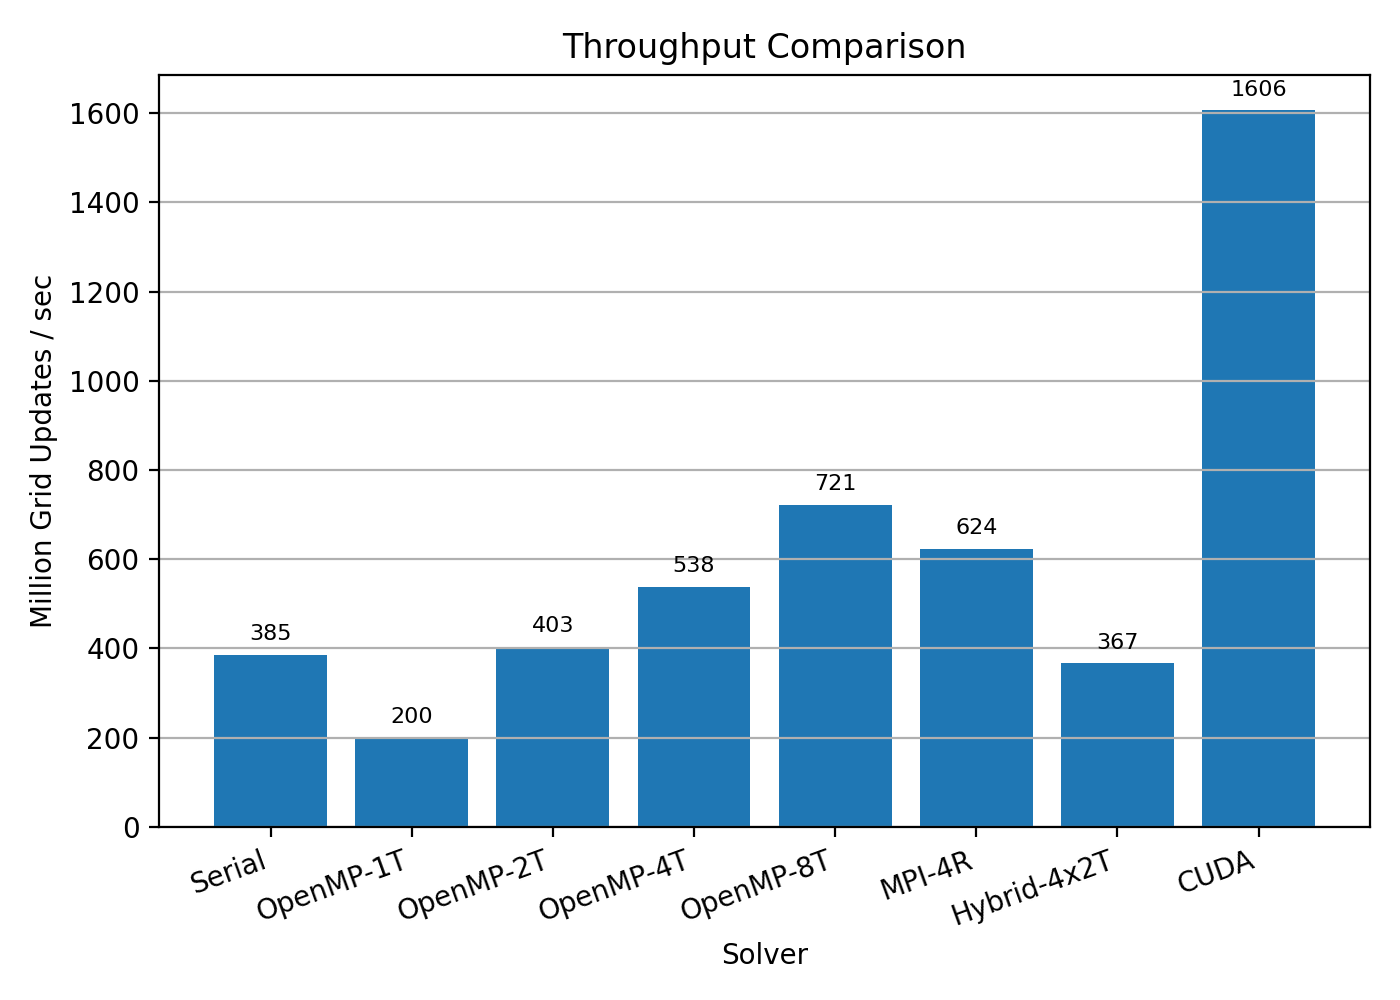
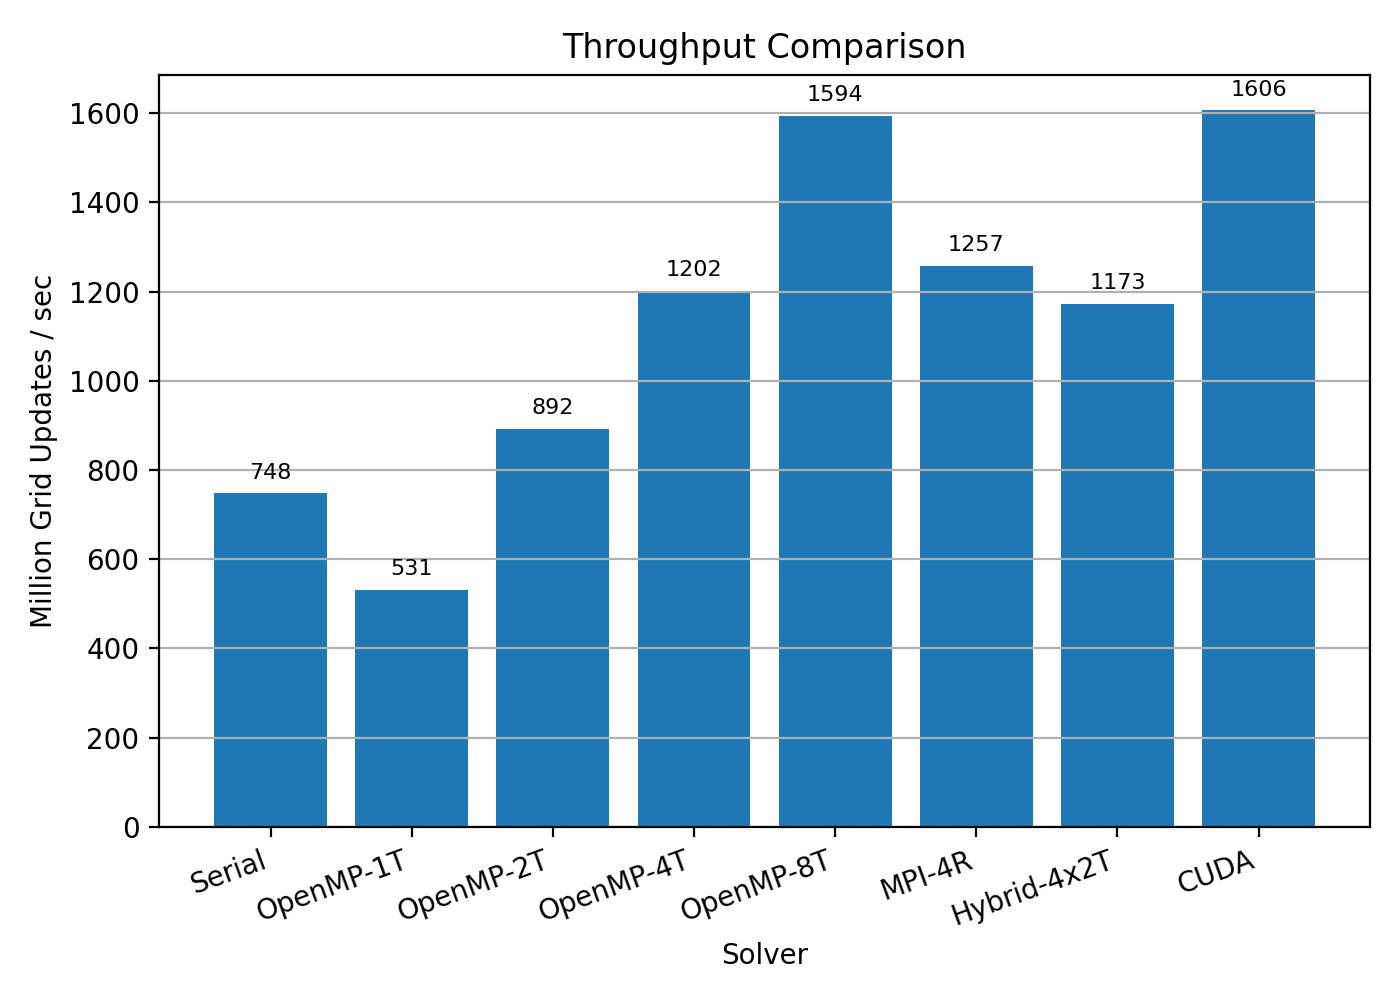
Restore frontend graph outputs

Changed region(s): [[0.1536, 0.062, 0.86, 0.744]]

diff --git a/Compare/comparison_results.js b/Compare/comparison_results.js
@@ -1,10 +1,10 @@
 window.COMPARISON_RESULTS = [
-  {"solver":"Serial","workers":1,"mpi_ranks":1,"openmp_threads":1,"exec_ms":8084.2679,"speedup":1.0,"efficiency_pct":100.0,"rmse":2.947695e-06,"rmse_vs_serial":0.0,"max_temp_C":90.600938,"throughput_MPointsPerSec":385.007},
-  {"solver":"OpenMP-1T","workers":1,"mpi_ranks":1,"openmp_threads":1,"exec_ms":15572.6171,"speedup":0.519134,"efficiency_pct":51.9134,"rmse":2.947695e-06,"rmse_vs_serial":0.0,"max_temp_C":90.600938,"throughput_MPointsPerSec":199.8701},
-  {"solver":"OpenMP-2T","workers":2,"mpi_ranks":1,"openmp_threads":2,"exec_ms":7721.3521,"speedup":1.047002,"efficiency_pct":52.3501,"rmse":2.947695e-06,"rmse_vs_serial":0.0,"max_temp_C":90.600938,"throughput_MPointsPerSec":403.103},
-  {"solver":"OpenMP-4T","workers":4,"mpi_ranks":1,"openmp_threads":4,"exec_ms":5782.883,"speedup":1.397965,"efficiency_pct":34.9491,"rmse":2.947695e-06,"rmse_vs_serial":0.0,"max_temp_C":90.600938,"throughput_MPointsPerSec":538.2263},
-  {"solver":"OpenMP-8T","workers":8,"mpi_ranks":1,"openmp_threads":8,"exec_ms":4316.1798,"speedup":1.873015,"efficiency_pct":23.4127,"rmse":2.947695e-06,"rmse_vs_serial":0.0,"max_temp_C":90.600938,"throughput_MPointsPerSec":721.1238},
-  {"solver":"MPI-4R","workers":4,"mpi_ranks":4,"openmp_threads":0,"exec_ms":4987.36,"speedup":1.620951,"efficiency_pct":40.5238,"rmse":2.94769e-06,"rmse_vs_serial":2.880623e-07,"max_temp_C":90.6009,"throughput_MPointsPerSec":624.0777},
-  {"solver":"Hybrid-4x2T","workers":8,"mpi_ranks":4,"openmp_threads":2,"exec_ms":8485.13,"speedup":0.952757,"efficiency_pct":11.9095,"rmse":2.94769e-06,"rmse_vs_serial":2.880623e-07,"max_temp_C":90.6009,"throughput_MPointsPerSec":366.8182},
-  {"solver":"CUDA","workers":0,"mpi_ranks":0,"openmp_threads":0,"exec_ms":1937.95,"speedup":4.171556,"efficiency_pct":0.0,"rmse":2.9477e-06,"rmse_vs_serial":2.561886e-05,"max_temp_C":90.6009,"throughput_MPointsPerSec":1606.0786}
+  {"solver":"Serial","workers":1,"mpi_ranks":1,"openmp_threads":1,"exec_ms":4163.5178,"speedup":1.0,"efficiency_pct":100.0,"rmse":2.947695e-06,"rmse_vs_serial":0.0,"max_temp_C":90.600938,"throughput_MPointsPerSec":747.565},
+  {"solver":"OpenMP-1T","workers":1,"mpi_ranks":1,"openmp_threads":1,"exec_ms":5857.5226,"speedup":0.710798,"efficiency_pct":71.0798,"rmse":2.947695e-06,"rmse_vs_serial":0.0,"max_temp_C":90.600938,"throughput_MPointsPerSec":531.368},
+  {"solver":"OpenMP-2T","workers":2,"mpi_ranks":1,"openmp_threads":2,"exec_ms":3490.4232,"speedup":1.19284,"efficiency_pct":59.642,"rmse":2.947695e-06,"rmse_vs_serial":0.0,"max_temp_C":90.600938,"throughput_MPointsPerSec":891.7257},
+  {"solver":"OpenMP-4T","workers":4,"mpi_ranks":1,"openmp_threads":4,"exec_ms":2590.0179,"speedup":1.607525,"efficiency_pct":40.1881,"rmse":2.947695e-06,"rmse_vs_serial":0.0,"max_temp_C":90.600938,"throughput_MPointsPerSec":1201.7292},
+  {"solver":"OpenMP-8T","workers":8,"mpi_ranks":1,"openmp_threads":8,"exec_ms":1952.0556,"speedup":2.132889,"efficiency_pct":26.6611,"rmse":2.947695e-06,"rmse_vs_serial":0.0,"max_temp_C":90.600938,"throughput_MPointsPerSec":1594.473},
+  {"solver":"MPI-4R","workers":4,"mpi_ranks":4,"openmp_threads":0,"exec_ms":2475.82,"speedup":1.681672,"efficiency_pct":42.0418,"rmse":2.94769e-06,"rmse_vs_serial":2.880623e-07,"max_temp_C":90.6009,"throughput_MPointsPerSec":1257.1592},
+  {"solver":"Hybrid-4x2T","workers":8,"mpi_ranks":4,"openmp_threads":2,"exec_ms":2654.1,"speedup":1.568712,"efficiency_pct":19.6089,"rmse":2.94769e-06,"rmse_vs_serial":2.880623e-07,"max_temp_C":90.6009,"throughput_MPointsPerSec":1172.7139},
+  {"solver":"CUDA","workers":0,"mpi_ranks":0,"openmp_threads":0,"exec_ms":1937.95,"speedup":2.148413,"efficiency_pct":0.0,"rmse":2.9477e-06,"rmse_vs_serial":0.0,"max_temp_C":90.6009,"throughput_MPointsPerSec":1606.0786}
 ];
